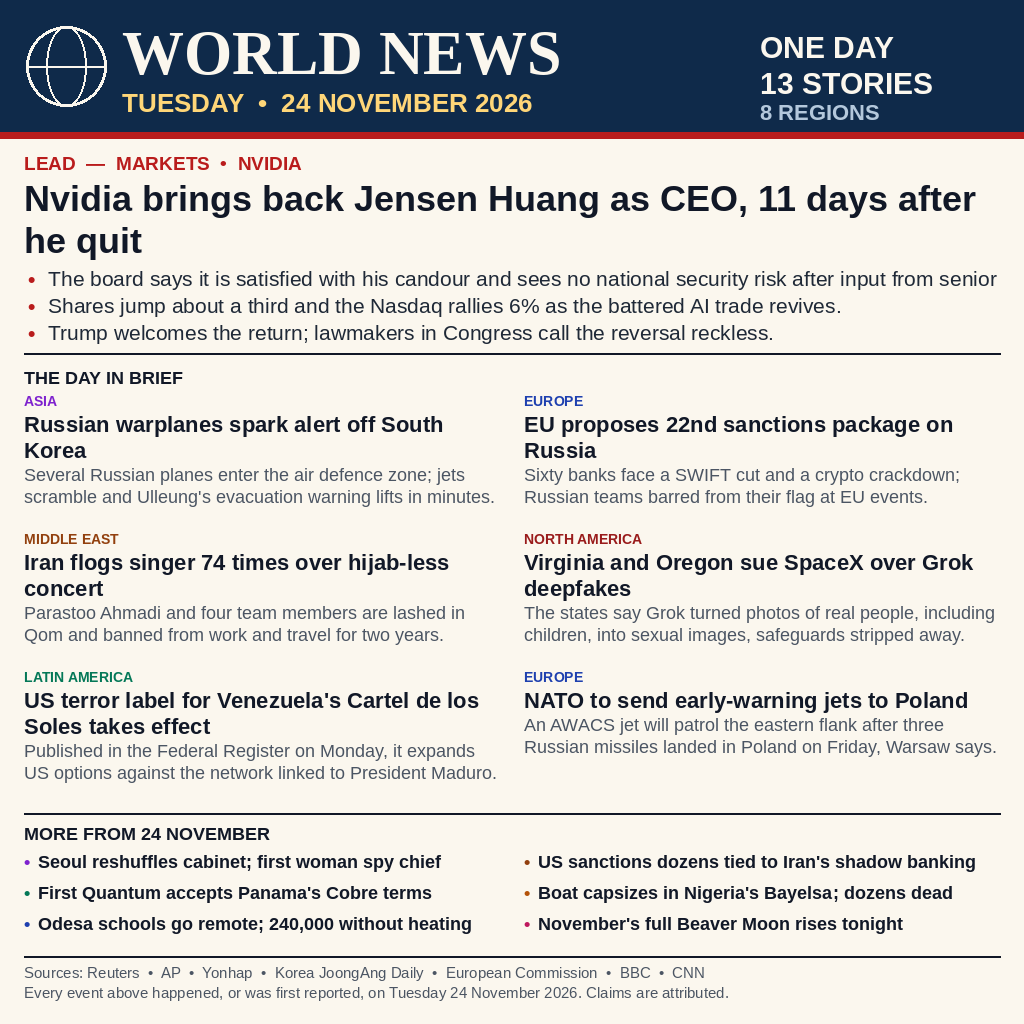
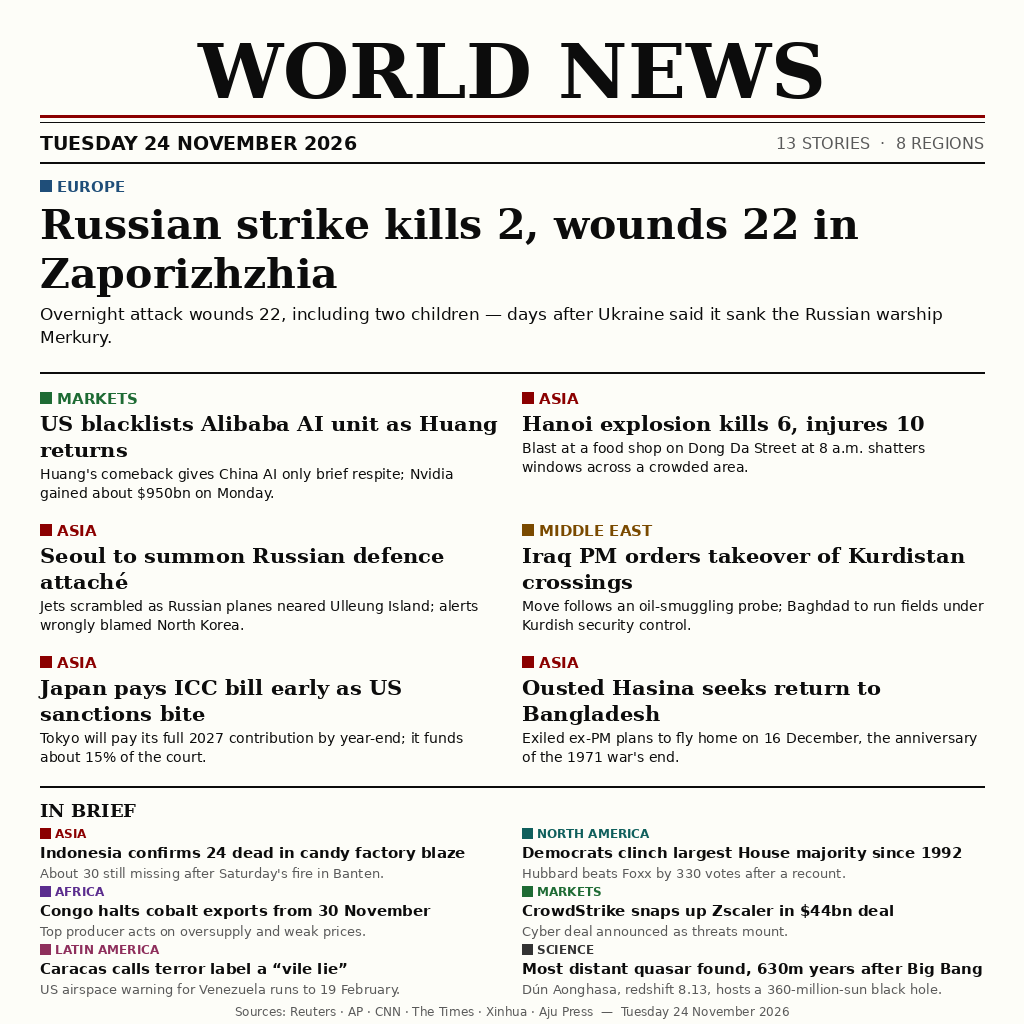
Add files via upload

diff --git a/main.ts b/main.ts
@@ -1,18 +1,21 @@
-import { copyFile, mkdir } from "node:fs/promises";
+// news-image-20261124 v2 — entrypoint: copies the front page (entry.png,
+// rendered beside this file) into the grader's output directory.
+import { copyFile, mkdir, stat } from "node:fs/promises";
 import { dirname, join } from "node:path";
 import { fileURLToPath } from "node:url";
 
-// news-image-20261124: copy the rendered front page to the output dir.
-// The image itself is pre-rendered (see render.py at the competition
-// level); this program only moves its bytes, so both runs write the
-// same file.
-const here = dirname(fileURLToPath(import.meta.url));
+const sourceDir = dirname(fileURLToPath(import.meta.url));
 const outDir = process.env.MAKEFUN_OUTPUT_DIR ?? "/output";
+
 await mkdir(outDir, { recursive: true });
-await copyFile(join(here, "entry.png"), join(outDir, "entry.png"));
-const { stat } = await import("node:fs/promises");
-const sourceBytes = (await stat(join(here, "entry.png"))).size;
+await copyFile(join(sourceDir, "entry.png"), join(outDir, "entry.png"));
+
+// Confirm the copy is whole: a short write would hand the judge a broken
+// image, so refuse to finish silently if the sizes differ.
+const sourceBytes = (await stat(join(sourceDir, "entry.png"))).size;
 const copiedBytes = (await stat(join(outDir, "entry.png"))).size;
 if (sourceBytes !== copiedBytes) {
-  throw new Error(`entry.png was not copied whole: ${copiedBytes} of ${sourceBytes} bytes written`);
+  throw new Error(
+    `entry.png was not copied whole: ${copiedBytes} of ${sourceBytes} bytes written`,
+  );
 }

diff --git a/README.md b/README.md
@@ -1,22 +1,37 @@
 # World News: Tuesday 24 November 2026
 
-[![news-image-20261124](https://make.fun/badge/news-image-20261124.svg)](https://make.fun/bounty/news-image-20261124)
+[![make.fun](https://make.fun/badge/news-image-20261124.svg)](https://make.fun/bounty/news-image-20261124)
 [![rank](https://make.fun/badge/news-image-20261124/zhenggangnan33-lang/news-image-20261124/rank.svg)](https://make.fun/bounty/news-image-20261124)
 [![reward](https://make.fun/badge/news-image-20261124/zhenggangnan33-lang/news-image-20261124/reward.svg)](https://make.fun/bounty/news-image-20261124)
 
-One image summing up the world's news of Tuesday 24 November 2026:
-13 stories across 8 regions, rendered as a newspaper front page.
+A one-page newspaper front page summing up the world's news of Tuesday
+24 November 2026 — 13 stories from 8 regions, rendered programmatically
+with Python and PIL.
 
-- **Lead:** Nvidia brings back Jensen Huang as CEO, 11 days after he quit
-- **Also:** Russian warplanes spark an alert off South Korea; the EU
-  proposes its 22nd sanctions package on Russia; Iran flogs singer
-  Parastoo Ahmadi; Virginia and Oregon sue SpaceX over Grok deepfakes;
-  the US terror label for Venezuela's Cartel de los Soles takes effect;
-  NATO sends early-warning jets to Poland — plus six more briefs.
+## The day's stories
 
-`main.ts` copies `entry.png` (1024×1024, 169,981 bytes) to the output
-directory. The image is rendered deterministically by `render.py`
-(see BUILD_NOTES.md at the competition level); re-running it produces
-byte-identical output.
+Lead: a Russian strike kills 2 and wounds 22 in Zaporizhzhia, days after
+Ukraine said it sank the Russian warship Merkury. Also: the US blacklists
+an Alibaba AI unit as Jensen Huang returns to Nvidia; an explosion kills
+6 in Hanoi; Seoul summons Russia's defence attaché; Iraq takes over
+Kurdistan's border crossings; Japan pays its ICC bill early; and the
+ousted Sheikh Hasina plans to return to Bangladesh.
 
-Built for the [news-image-20261124 bounty](https://make.fun/bounty/news-image-20261124) on make.fun.
+## How it works
+
+`main.ts` copies `entry.png` (1024×1024, rendered with Python/PIL) to the
+grader's output directory. The image is deterministic: rendering it twice
+produces byte-identical output.
+
+`entry.png`: 129,884 bytes,
[1 lines of base64/hex data omitted]
+
+This is v2, built for the round-2 blind cutoff. It replaces v1 with
+Tuesday's newer developments: the overnight Zaporizhzhia strike leads,
+the South Korea and Venezuela stories carry their Tuesday follow-ups,
+and the Hanoi blast, Iraq border takeover, Japan's ICC payment, Hasina's
+planned return and the record quasar are new.
+
+## License
+
+MIT — see [LICENSE](LICENSE).
